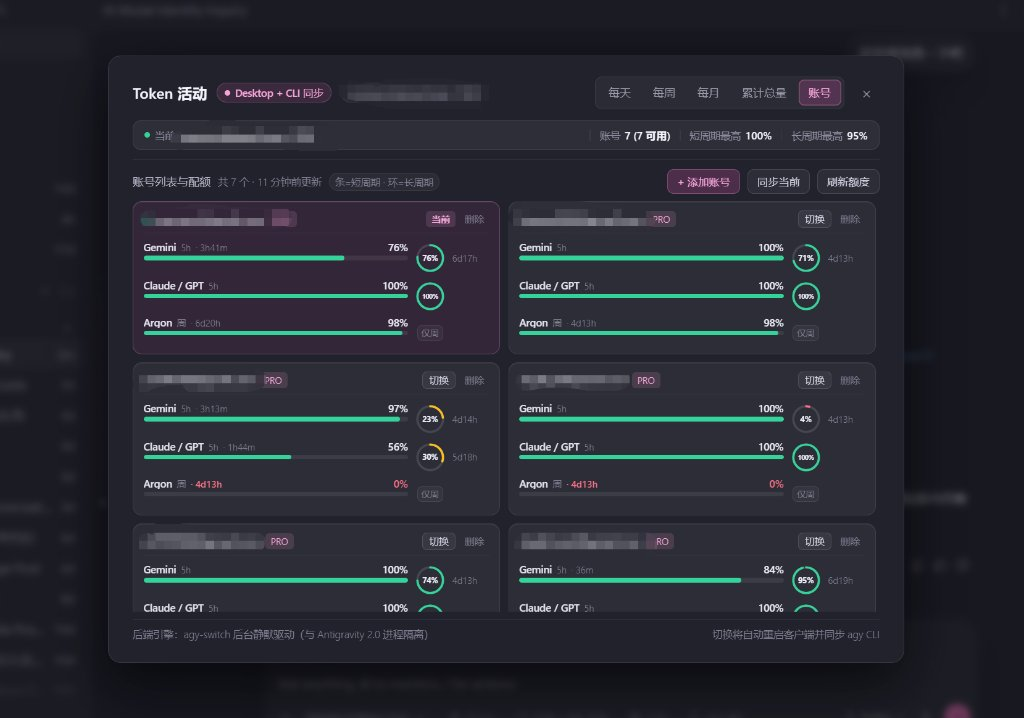
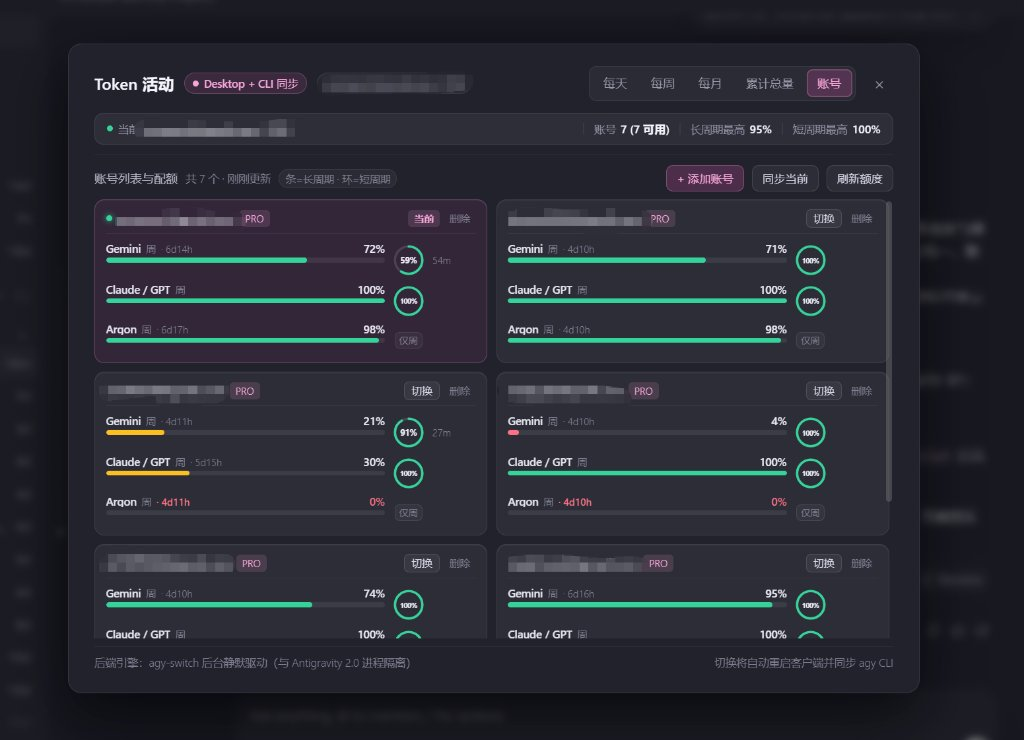
feat(ui): swap quota bar to weekly (long-window) and ring to 5h (short-window) with updated preview

diff --git a/src/preload-part2.js b/src/preload-part2.js
@@ -788,7 +788,7 @@ return fallback;
 }
 function renderQuotaRingHtml(groupName, bucket, prevPct) {
 const pct = bucket && typeof bucket.pct === 'number' && Number.isFinite(bucket.pct) ? Math.max(0, Math.min(100, Math.round(bucket.pct))) : null;
-const winLabel = (bucket && bucket.label) ? String(bucket.label) : '长周期';
+const winLabel = (bucket && bucket.label) ? String(bucket.label) : '短周期';
 const resetFull = bucket && bucket.resetTime ? formatResetCountdown(bucket.resetTime) : '';
 const fullTip = `${groupName} ${winLabel}额度：${pct !== null ? `${pct}%` : '未知'}${resetFull ? ` · ${resetFull}` : ''}`;
 const strokeColor = getQuotaBarColor(pct);
@@ -815,8 +815,8 @@ return '';
 }
 const fullName = String((group && group.name) || (group && group.shortName) || '模型池');
 const shortName = String((group && group.shortName) || fullName);
-const primary = buckets[0];
-const secondary = buckets.length > 1 ? buckets[buckets.length - 1] : null;
+const primary = buckets[buckets.length - 1];
+const secondary = buckets.length > 1 ? buckets[0] : null;
 const showThirdCol = hasAnyDual !== undefined ? Boolean(hasAnyDual) : Boolean(secondary);
 const pct = primary && typeof primary.pct === 'number' && Number.isFinite(primary.pct) ? Math.max(0, Math.min(100, Math.round(primary.pct))) : null;
 const winLabel = (primary && primary.label) ? String(primary.label) : '额度';
@@ -841,7 +841,7 @@ let ringColHtml = '';
 let longResetColHtml = '';
 if (secondary) {
 const secPct = typeof secondary.pct === 'number' && Number.isFinite(secondary.pct) ? Math.max(0, Math.min(100, Math.round(secondary.pct))) : null;
-const ringKey = `${acctId}:${idx}:${secondary.window || secondary.label || 'long'}`;
+const ringKey = `${acctId}:${idx}:${secondary.window || secondary.label || 'short'}`;
 const prevPct = ringPrevMap && typeof ringPrevMap.get === 'function' ? ringPrevMap.get(ringKey) : undefined;
 if (ringNextMap && typeof ringNextMap.set === 'function' && secPct !== null) {
 ringNextMap.set(ringKey, secPct);
@@ -851,7 +851,7 @@ if (showThirdCol) {
 const secResetShort = secondary.resetTime ? formatResetCountdownCompact(secondary.resetTime) : '';
 const secResetFull = secondary.resetTime ? formatResetCountdown(secondary.resetTime) : '';
 const showSecReset = Boolean(secResetShort && secPct !== null && secPct < 100);
-const secWinLbl = secondary.label ? String(secondary.label) : '长周期';
+const secWinLbl = secondary.label ? String(secondary.label) : '短周期';
 const secTip = showSecReset ? `${fullName} ${secWinLbl}额度 · ${secResetFull || secResetShort}` : '';
 longResetColHtml = `<span class="agy-ta-pool-long-reset${secPct === 0 ? ' is-depleted' : ''}"${secTip ? ` title="${escHtml(secTip)}"` : ''}>${showSecReset ? escHtml(secResetShort) : ''}</span>`;
 }
@@ -1078,8 +1078,8 @@ const q = a && a.quota ? a.quota : null;
 const dynGroups = resolveDynamicQuotaGroups(q);
 const firstGrp = dynGroups[0] || null;
 const firstBuckets = firstGrp && Array.isArray(firstGrp.buckets) ? firstGrp.buckets : [];
-const dynShort = firstBuckets.length > 0 ? firstBuckets[0] : null;
-const dynLong = firstBuckets.length > 1 ? firstBuckets[firstBuckets.length - 1] : null;
+const dynLong = firstBuckets.length > 0 ? firstBuckets[firstBuckets.length - 1] : null;
+const dynShort = firstBuckets.length > 1 ? firstBuckets[0] : null;
 const p5 = (q && q.fiveHour && typeof q.fiveHour.pct === 'number' && Number.isFinite(q.fiveHour.pct))
 ? Math.round(q.fiveHour.pct)
 : (dynShort && typeof dynShort.pct === 'number' ? Math.round(dynShort.pct) : null);
@@ -1992,16 +1992,16 @@ overlay.innerHTML = `
 <span class="agy-ta-acct-sum-sep"></span>
 <span class="agy-ta-acct-sum-item"><span class="agy-ta-acct-sum-lbl">账号</span><span class="agy-ta-acct-sum-val" data-role="acct-kpi-count-val">0</span></span>
 <span class="agy-ta-acct-sum-sep"></span>
-<span class="agy-ta-acct-sum-item"><span class="agy-ta-acct-sum-lbl">短周期最高</span><span class="agy-ta-acct-sum-val" data-role="acct-kpi-5h-val">--</span></span>
-<span class="agy-ta-acct-sum-sep"></span>
 <span class="agy-ta-acct-sum-item"><span class="agy-ta-acct-sum-lbl">长周期最高</span><span class="agy-ta-acct-sum-val" data-role="acct-kpi-week-val">--</span></span>
+<span class="agy-ta-acct-sum-sep"></span>
+<span class="agy-ta-acct-sum-item"><span class="agy-ta-acct-sum-lbl">短周期最高</span><span class="agy-ta-acct-sum-val" data-role="acct-kpi-5h-val">--</span></span>
 </div>
 <div class="agy-ta-acct-panel">
 <div class="agy-ta-section-head">
 <div class="agy-ta-acct-head-left">
 <span class="agy-ta-section-title">账号列表与配额</span>
 <span class="agy-ta-acct-meta" data-role="ta-acct-meta"></span>
-<span class="agy-ta-acct-legend" title="左侧进度条为短周期额度，右侧动态圆环为长周期额度（单周期池直接以进度条展示）">条=短周期 · 环=长周期</span>
+<span class="agy-ta-acct-legend" title="左侧进度条为长周期（周）额度，右侧动态圆环为短周期（5h）额度（单周期池直接以进度条展示）">条=长周期 · 环=短周期</span>
 </div>
 <div class="agy-ta-acct-head-actions">
 <button type="button" class="agy-ta-acct-btn agy-ta-acct-btn-primary" data-action="acct-add">+ 添加账号</button>

diff --git a/tests/account-switcher-bridge.test.js b/tests/account-switcher-bridge.test.js
@@ -633,7 +633,7 @@ async function runTests() {
     assert(html.includes('&lt;img src=x onerror=1&gt;'));
     assert(!html.includes('<img '));
     assert(html.includes('65%'));
-    // Dual-window pool renders left animated bar + right animated SVG ring with XX% inside & W1 3-o'clock weekly reset
+    // Dual-window pool renders left long-window (weekly) bar + right animated short-window (5h) SVG ring with XX% inside & 3-o'clock short reset
     const futureShort = new Date(Date.now() + 17400000).toISOString();
     const futureWeek = new Date(Date.now() + 4 * 86400000).toISOString();
     const dualHtml = helperCtx.renderPoolRowHtml('acct1', {
@@ -647,12 +647,13 @@ async function runTests() {
     assert(dualHtml.includes('agy-ta-pool-row'));
     assert(dualHtml.includes('agy-ta-ring-arc'));
     assert(dualHtml.includes('data-target-offset='));
-    assert(dualHtml.includes('data-target-width="78%"'));
-    assert(dualHtml.includes('>93%<'));
-    assert(dualHtml.includes('agy-ta-pool-reset')); // < 100% shows short countdown
-    assert(dualHtml.includes('agy-ta-pool-long-reset')); // W1 shows weekly reset at 3 o'clock when < 100%
-    assert(dualHtml.includes('4d'));
-    // Full 100% hides countdowns (both short & long); 100% inside ring gets .is-full-pct
+    assert(dualHtml.includes('data-target-width="93%"'));
+    assert(dualHtml.includes('>78%<'));
+    assert(dualHtml.includes('agy-ta-pool-reset')); // < 100% weekly shows bar countdown
+    assert(dualHtml.includes('4d')); // weekly reset on left bar
+    assert(dualHtml.includes('agy-ta-pool-long-reset')); // 5h reset at 3 o'clock when < 100%
+    assert(dualHtml.includes('4h')); // 5h reset on right 3-o'clock
+    // Full 100% hides countdowns (both long & short); 100% inside ring gets .is-full-pct
     const fullBothHtml = helperCtx.renderPoolRowHtml('acct2', {
       name: 'Claude and GPT models',
       shortName: 'Claude / GPT',
@@ -665,16 +666,17 @@ async function runTests() {
     assert(fullBothHtml.includes('is-full-pct'));
     assert(fullBothHtml.includes('>100%<'));
     assert(fullBothHtml.includes('<span class="agy-ta-pool-long-reset"></span>'));
-    // Depleted 0% weekly marks long-reset column with is-depleted
-    const depletedWeekHtml = helperCtx.renderPoolRowHtml('acct2b', {
+    // Depleted 0% short-window (5h) marks 3-o'clock ring-reset column with is-depleted; depleted 0% weekly marks bar reset with is-depleted
+    const depletedShortHtml = helperCtx.renderPoolRowHtml('acct2b', {
       name: 'Claude and GPT models',
       shortName: 'Claude / GPT',
       buckets: [
-        { window: 'daily', label: '日', pct: 100, resetTime: futureShort },
+        { window: '5h', label: '5h', pct: 0, resetTime: futureShort },
         { window: 'weekly', label: '周', pct: 0, resetTime: futureWeek },
       ],
     }, 1, new Map(), new Map(), true);
-    assert(depletedWeekHtml.includes('agy-ta-pool-long-reset is-depleted'));
+    assert(depletedShortHtml.includes('agy-ta-pool-reset is-depleted'));
+    assert(depletedShortHtml.includes('agy-ta-pool-long-reset is-depleted'));
     // Plan A single-window pool renders left bar + centered muted tag (e.g. 仅周) with is-single-window
     const singleHtml = helperCtx.renderPoolRowHtml('acct3', {
       name: 'Gemini 4 Argon',

diff --git a/src/preload-part1.js b/src/preload-part1.js
@@ -1569,7 +1569,7 @@ text-align: center;
 }
 #${MODAL_ID} .agy-ta-pool-row {
 display: grid;
-grid-template-columns: minmax(0, 1fr) 32px 40px;
+grid-template-columns: minmax(0, 1fr) 32px 44px;
 align-items: center;
 column-gap: 8px;
 padding-top: 4px;

diff --git a/README.md b/README.md
@@ -48,8 +48,8 @@
   - 本仓库已配置 GitHub Actions 工作流（[`.github/workflows/release-agy-switch.yml`](.github/workflows/release-agy-switch.yml)），基于公开源码 `tools/agy-switch-lite/` 在官方 `windows-latest` 环境自动编译并发布附带 SHA-256 校验值的预编译引擎至 GitHub Releases；
   - 普通用户**无需安装 Rust 或手动编译**——双击运行 `Antigravity-Telemetry-Installer.bat` 时，安装器会自动下载、校验 SHA-256 并部署 `agy-switch.exe` 到 `%LOCALAPPDATA%\agy-switch\agy-switch.exe`；若离线未部署，面板内也会保留「账号」页并提供一键重新检测与 Release 下载引导。
 - **核心交互（当前账号置顶 + 双列动态仪表盘）**：
-  - **当前登录账号始终排在第一位**：顶部为单行轻量状态条（当前激活账号 / 可用数 / 短周期与长周期最高余量），账号列表采用双列自适应网格（窄屏自动退回单列），当前正在使用的账号自动置顶高亮，零硬编码动态适配 Free / Pro / Ultra 等不同套餐的任意模型池数量与限额周期；
-  - **三点一线可视化配额与快→慢动效**：每个双周期池采用「左短周期细进度条（正对圆环 9 点钟）+ 右 32px 动态外圈进度圆环（环内直接显示 `XX%` / `100%`）+ 3 点钟独立长周期重置倒计时（满额自动隐藏、耗尽标红）」；单周期池（如 Argon 仅周额度）自动以进度条 + 对齐标签（如 `仅周`）展示；
+  - **当前登录账号始终排在第一位**：顶部为单行轻量状态条（当前激活账号 / 可用数 / 长周期与短周期最高余量），账号列表采用双列自适应网格（窄屏自动退回单列），当前正在使用的账号自动置顶高亮，零硬编码动态适配 Free / Pro / Ultra 等不同套餐的任意模型池数量与限额周期；
+  - **三点一线可视化配额与快→慢动效**：每个双周期池采用「左长周期（周）细进度条（正对圆环 9 点钟）+ 右 32px 短周期（5h）动态外圈进度圆环（环内直接显示 `XX%` / `100%`）+ 3 点钟独立短周期重置倒计时（满额自动隐藏、耗尽标红）」；单周期池（如 Argon 仅周额度）自动以进度条 + 对齐标签（如 `仅周`）展示，整卡所有长条语义统一为周/长周期总余量；
   - **自动对齐当前登录账号 (`同步当前`)**：打开弹窗时会自动静默对齐并导入当前正在登录的 Antigravity 2.0 账号，也可随时手动点击 **「同步当前」**；
   - **无黑框添加账号 (`+ 添加账号`)**：原生无头 `add --json` 直接打开系统浏览器完成 Google OAuth 登录（全程无黑框）；面板内提供「重新打开浏览器 / 复制链接 / 取消」，授权完成后自动同步；
   - **删除账号 (`删除`)**：内联二次确认（**「确认 / 取消」**）后调用原生 `delete <id> --json` 原子清理，不影响当前运行会话；
